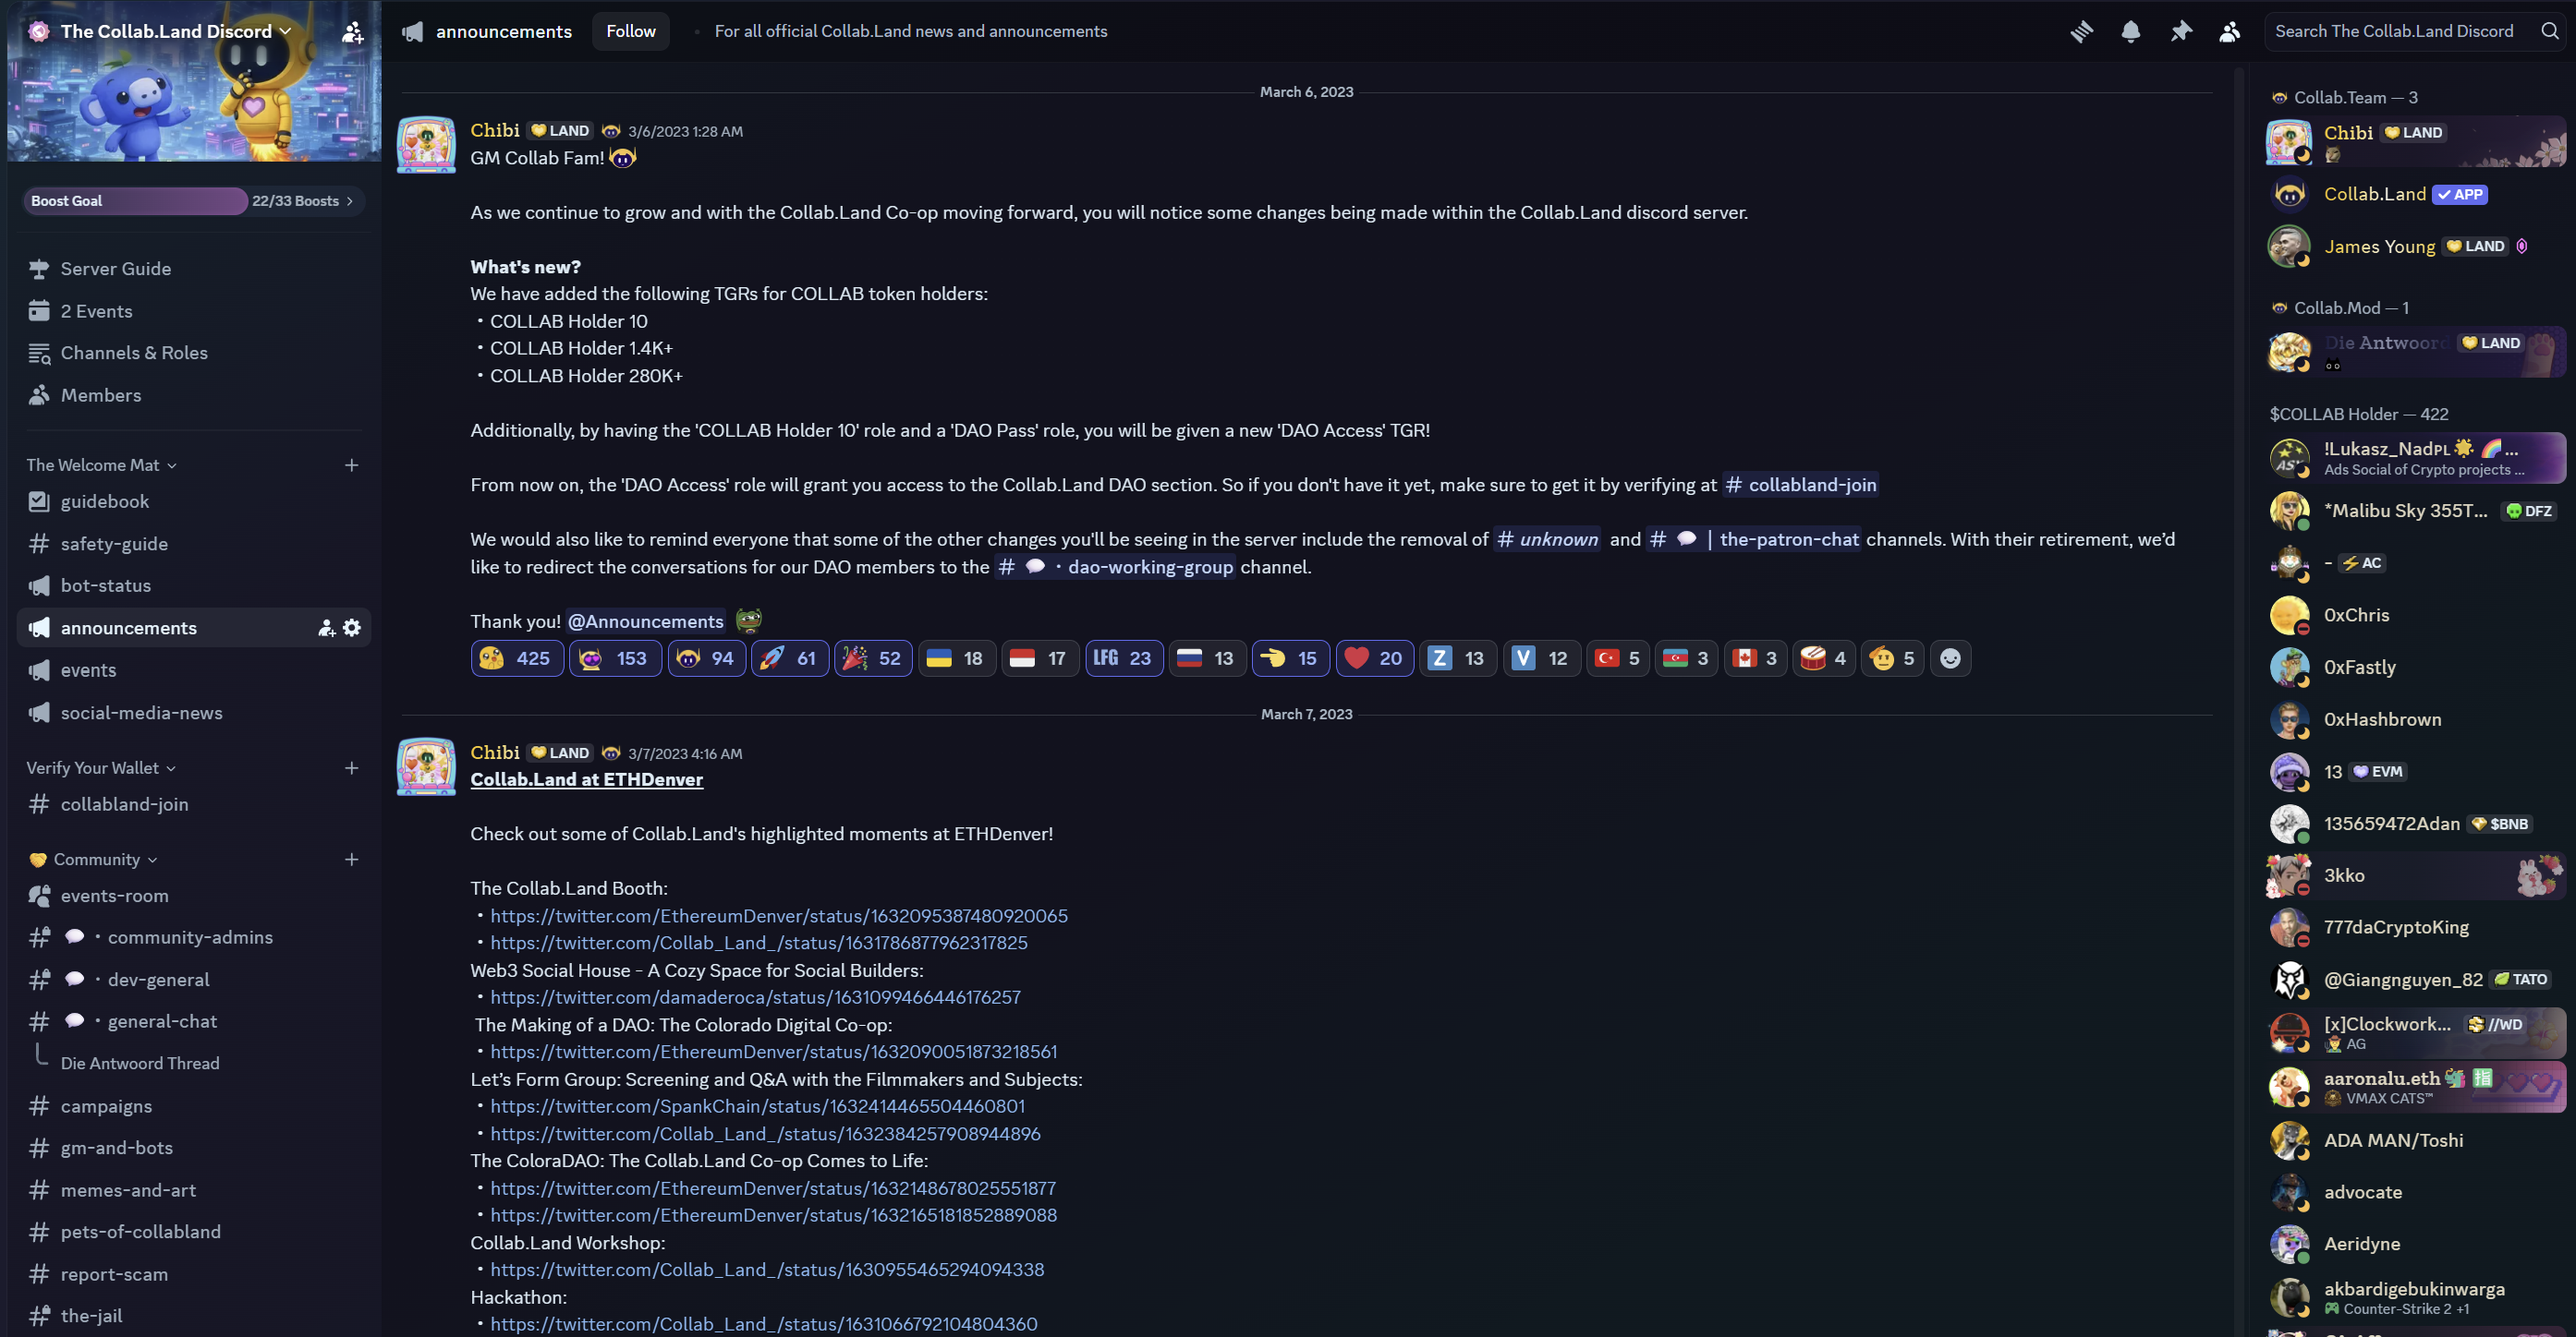
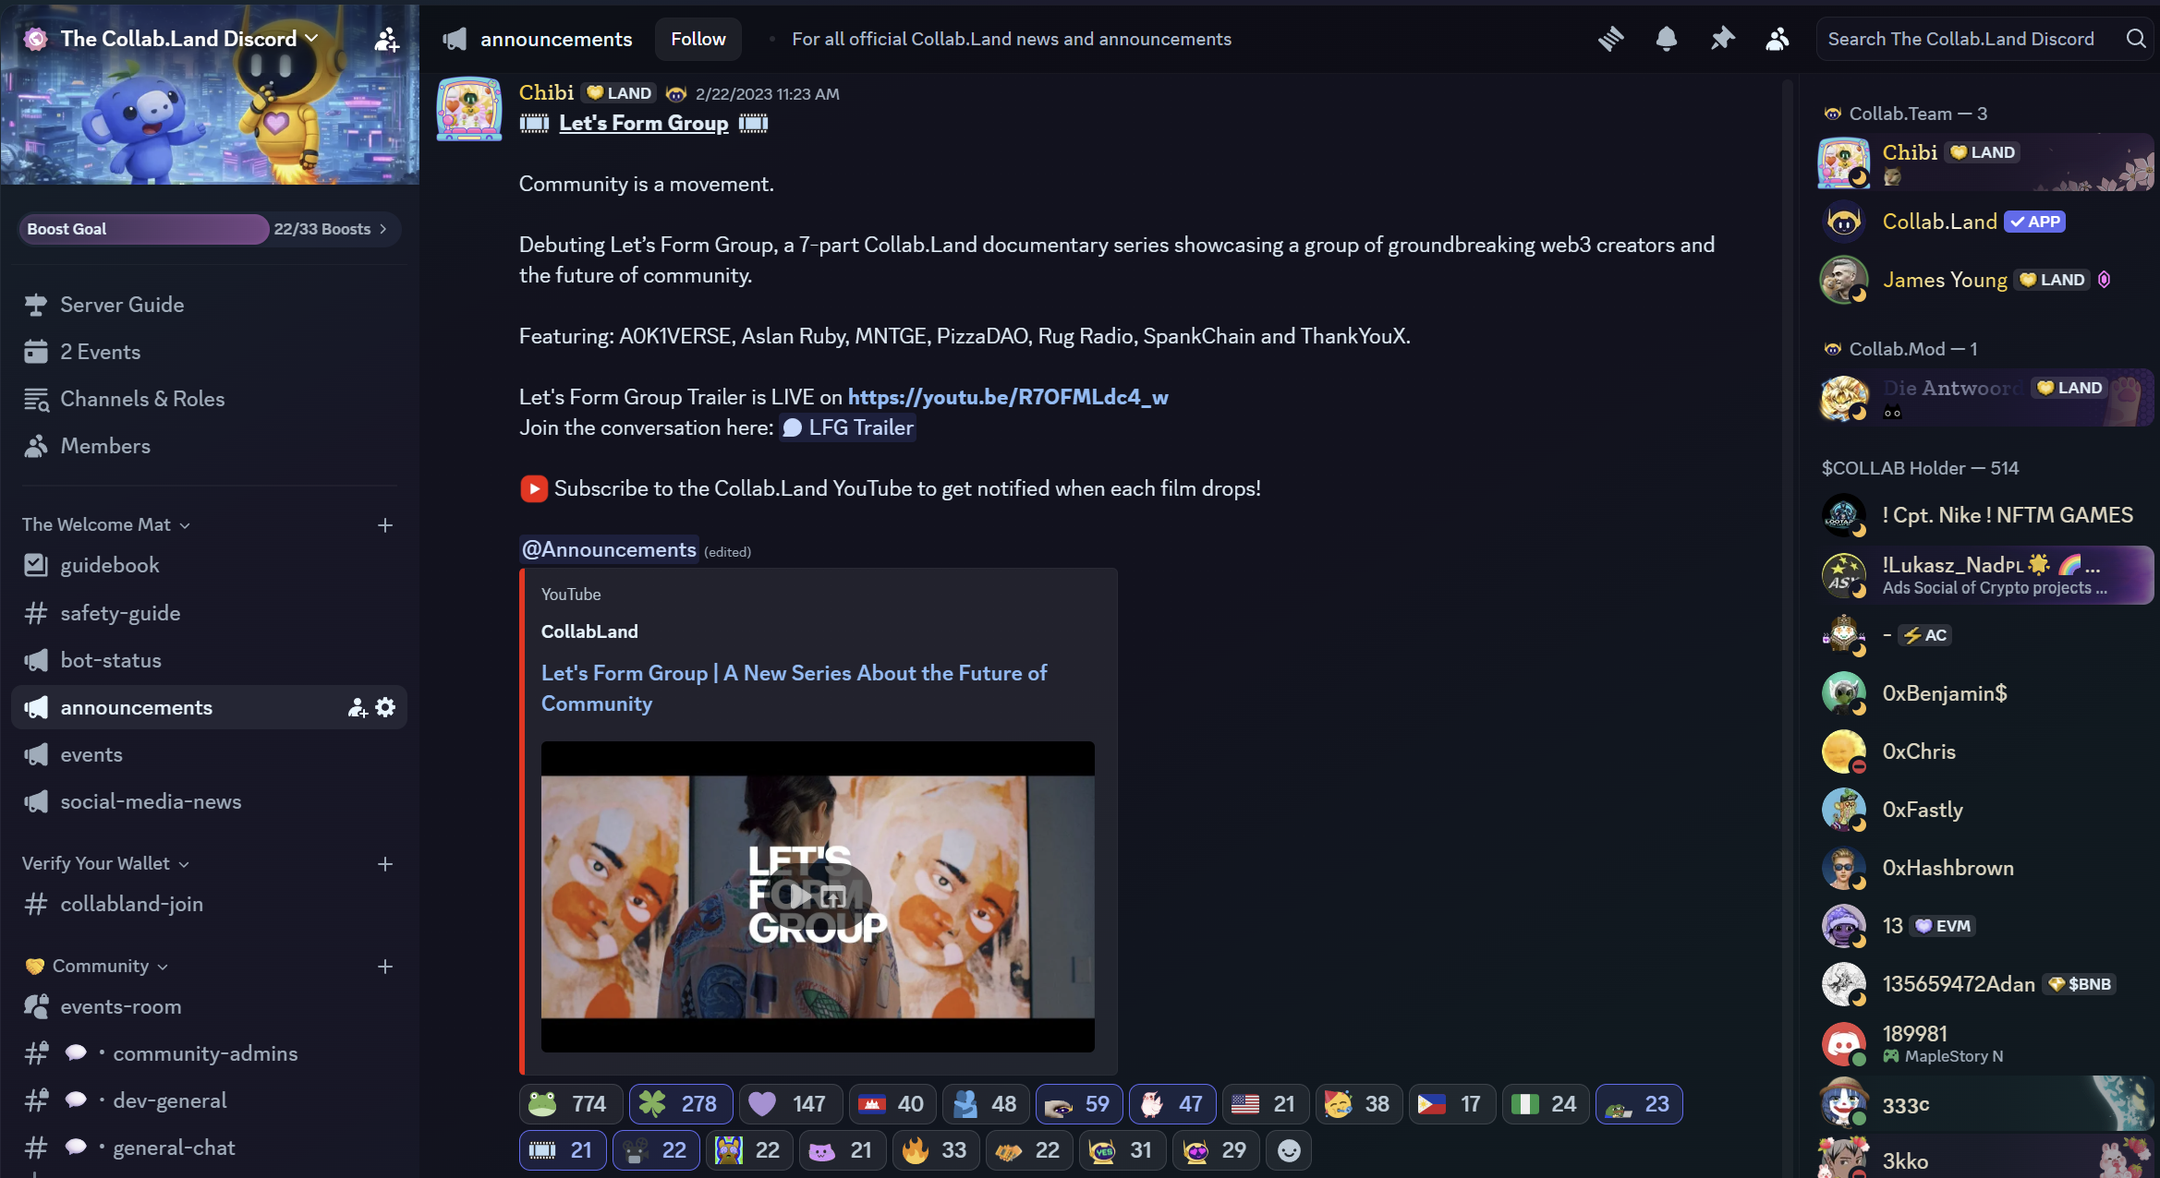
Remove Announcement1.png and update gallery images in site.ts; enhance gallery pager functionality in Creative component with ellipsis support.

Changed region(s): [[0.0, 0.0, 0.9991, 1.0], [0.1249, 0.4585, 0.1561, 0.489]]

diff --git a/src/content/site.ts b/src/content/site.ts
@@ -826,9 +826,10 @@
   },
   gallery: [
     // Collab.Land
-    { id: 'cl-a1', project: 'Collab.Land', kind: 'Community', label: 'Community announcement', src: '/Screenshots/Collab.Land/Announcement1.png', fit: 'cover' },
+    { id: 'cl-a1', project: 'Collab.Land', kind: 'Community', label: 'Community announcement', src: '/Screenshots/Collab.Land/Announcement.png', fit: 'cover' },
     { id: 'cl-a2', project: 'Collab.Land', kind: 'Community', label: 'Community announcement', src: '/Screenshots/Collab.Land/Announcement2.png', fit: 'cover' },
     { id: 'cl-a3', project: 'Collab.Land', kind: 'Community', label: 'Community announcement', src: '/Screenshots/Collab.Land/Announcement3.png', fit: 'cover' },
+    { id: 'cl-a4', project: 'Collab.Land', kind: 'Community', label: 'Articles campaign', src: '/Screenshots/Collab.Land/Announcement4.png', fit: 'cover' },
     { id: 'cl-msgs', project: 'Collab.Land', kind: 'Impact', label: '15,113 messages in one day', src: '/Screenshots/Collab.Land/Messages.png', fit: 'contain' },
     { id: 'cl-arrests', project: 'Collab.Land', kind: 'Impact', label: '9 arrests during the token claim', src: '/Screenshots/Collab.Land/Arrests.png', fit: 'contain' },
     { id: 'cl-sent', project: 'Collab.Land', kind: 'Impact', label: 'Community feedback', src: '/Screenshots/Collab.Land/Community_Sentiment1.png', fit: 'cover' },
@@ -851,6 +852,8 @@
     { id: 'cl-cal', project: 'Collab.Land', kind: 'Events', label: 'Community event calendar', src: '/Screenshots/Collab.Land/Weekly_Calendar1.png', fit: 'cover' },
     { id: 'cl-xgame1', project: 'Collab.Land', kind: 'Events', label: 'Community game on X', src: '/Screenshots/Collab.Land/X_Game1.png', fit: 'cover' },
     { id: 'cl-xgame2', project: 'Collab.Land', kind: 'Events', label: 'Community game on X', src: '/Screenshots/Collab.Land/X_Game2.png', fit: 'cover' },
+    { id: 'cl-x1', project: 'Collab.Land', kind: 'Product', label: 'Member Portal beta on X', src: '/Screenshots/Collab.Land/X_Announcement.png', fit: 'contain' },
+    { id: 'cl-x2', project: 'Collab.Land', kind: 'Events', label: 'Birthday giveaway on X', src: '/Screenshots/Collab.Land/X_Announcement2.png', fit: 'contain' },
     { id: 'cl-m1', project: 'Collab.Land', kind: 'Memes', label: 'Community meme', src: '/Screenshots/Collab.Land/Meme1.png', fit: 'cover' },
     { id: 'cl-m2', project: 'Collab.Land', kind: 'Memes', label: 'Community meme', src: '/Screenshots/Collab.Land/Meme2.png', fit: 'cover' },
     { id: 'cl-st1', project: 'Collab.Land', kind: 'Product', label: 'SmartTag product work', src: '/Screenshots/Collab.Land/SmartTag.png', fit: 'cover' },

diff --git a/src/components/Creative.tsx b/src/components/Creative.tsx
@@ -8,6 +8,39 @@ type Kind = (typeof site.galleryKinds)[number]
 
 const PAGE_SIZE = 6
 
+type PagerToken = number | 'ellipsis'
+
+/** First/last few, plus the current page. Gaps become an ellipsis. */
+function galleryPager(current: number, total: number): PagerToken[] {
+  if (total <= 7) return Array.from({ length: total }, (_, i) => i)
+
+  const want = new Set<number>()
+  const nearStart = current < 3
+  const nearEnd = current > total - 4
+
+  if (nearStart || nearEnd) {
+    for (let i = 0; i < 3; i++) want.add(i)
+    for (let i = total - 3; i < total; i++) want.add(i)
+  }
+
+  want.add(0)
+  want.add(total - 1)
+  for (let i = current - 1; i <= current + 1; i++) {
+    if (i >= 0 && i < total) want.add(i)
+  }
+
+  const sorted = [...want].sort((a, b) => a - b)
+  const out: PagerToken[] = []
+  for (let i = 0; i < sorted.length; i++) {
+    const n = sorted[i]
+    const prev = sorted[i - 1]
+    if (i > 0 && n - prev === 2) out.push(prev + 1)
+    else if (i > 0 && n - prev > 1) out.push('ellipsis')
+    out.push(n)
+  }
+  return out
+}
+
 export function Creative() {
   const [project, setProject] = useState<Project>('All')
   const [kind, setKind] = useState<Kind>('All')
@@ -170,18 +203,24 @@ export function Creative() {
             ‹
           </button>
           <div className="gallery-pager-pages">
-            {Array.from({ length: pageCount }, (_, i) => (
-              <button
-                key={i}
-                type="button"
-                className={`gallery-pager-page${i === safePage ? ' is-active' : ''}`}
-                aria-label={`Page ${i + 1}`}
-                aria-current={i === safePage ? 'page' : undefined}
-                onClick={() => setPage(i)}
-              >
-                {i + 1}
-              </button>
-            ))}
+            {galleryPager(safePage, pageCount).map((token, i) =>
+              token === 'ellipsis' ? (
+                <span key={`ellipsis-${i}`} className="gallery-pager-ellipsis" aria-hidden="true">
+                  ···
+                </span>
+              ) : (
+                <button
+                  key={token}
+                  type="button"
+                  className={`gallery-pager-page${token === safePage ? ' is-active' : ''}`}
+                  aria-label={`Page ${token + 1}`}
+                  aria-current={token === safePage ? 'page' : undefined}
+                  onClick={() => setPage(token)}
+                >
+                  {token + 1}
+                </button>
+              ),
+            )}
           </div>
           <button
             type="button"

diff --git a/src/components/Creative.css b/src/components/Creative.css
@@ -202,7 +202,16 @@
 
 .gallery-pager-pages {
   display: flex;
+  align-items: center;
   gap: 0.35rem;
+}
+
+.gallery-pager-ellipsis {
+  width: 1.6rem;
+  text-align: center;
+  letter-spacing: 0.04em;
+  opacity: 0.55;
+  user-select: none;
 }
 
 .gallery-pager-page.is-active,
